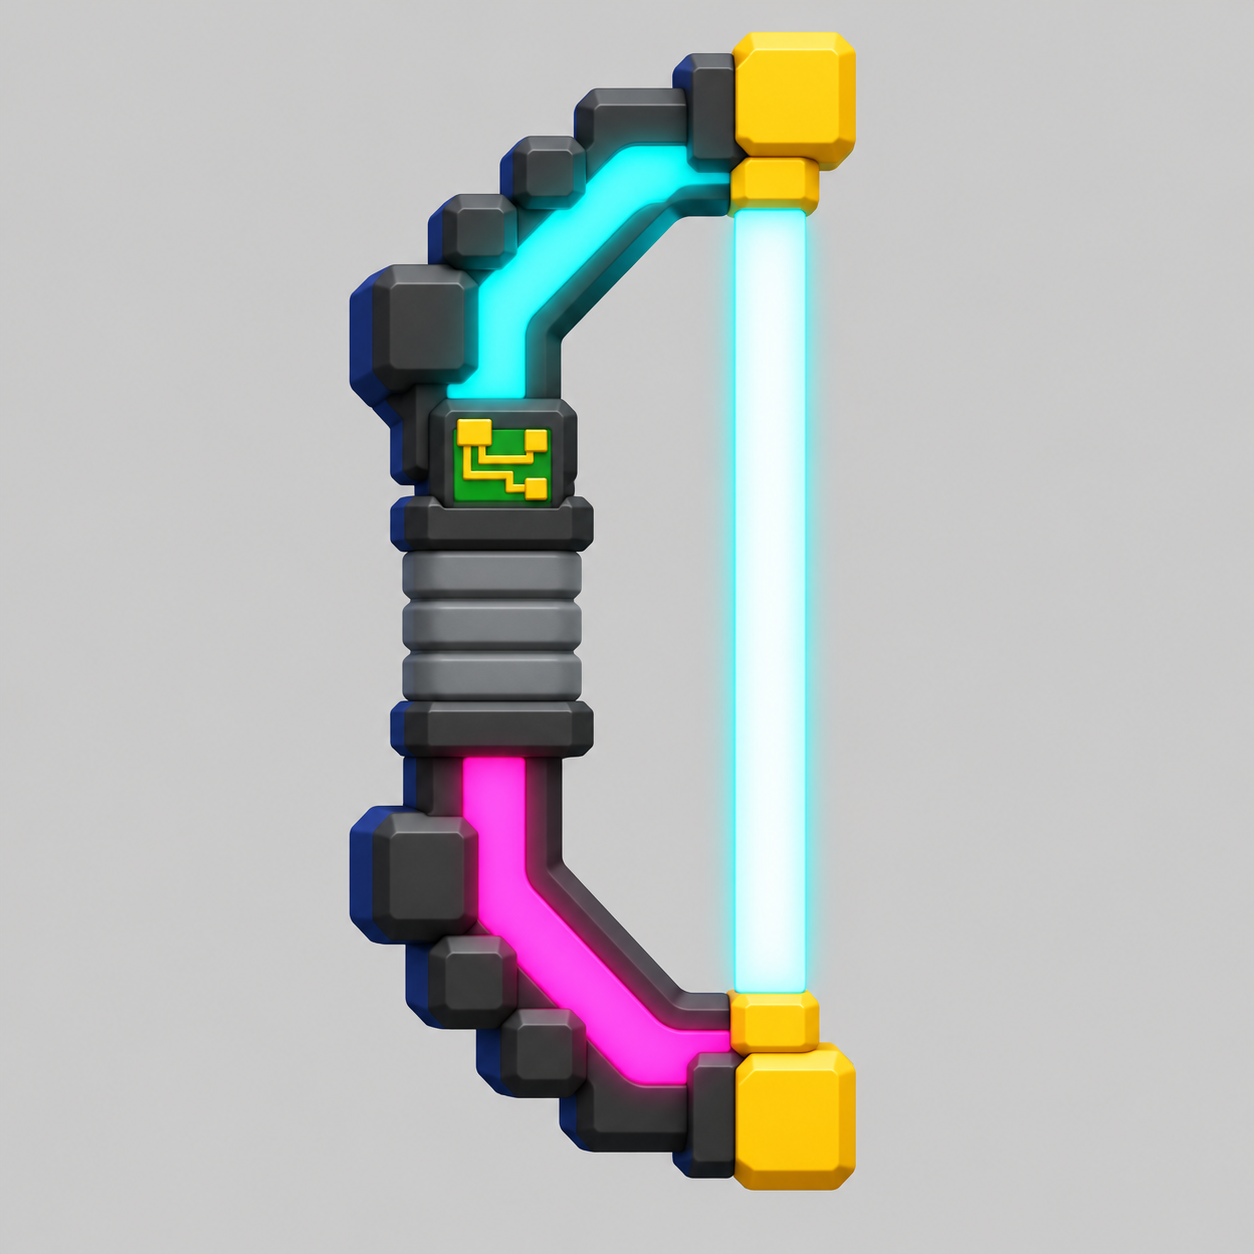
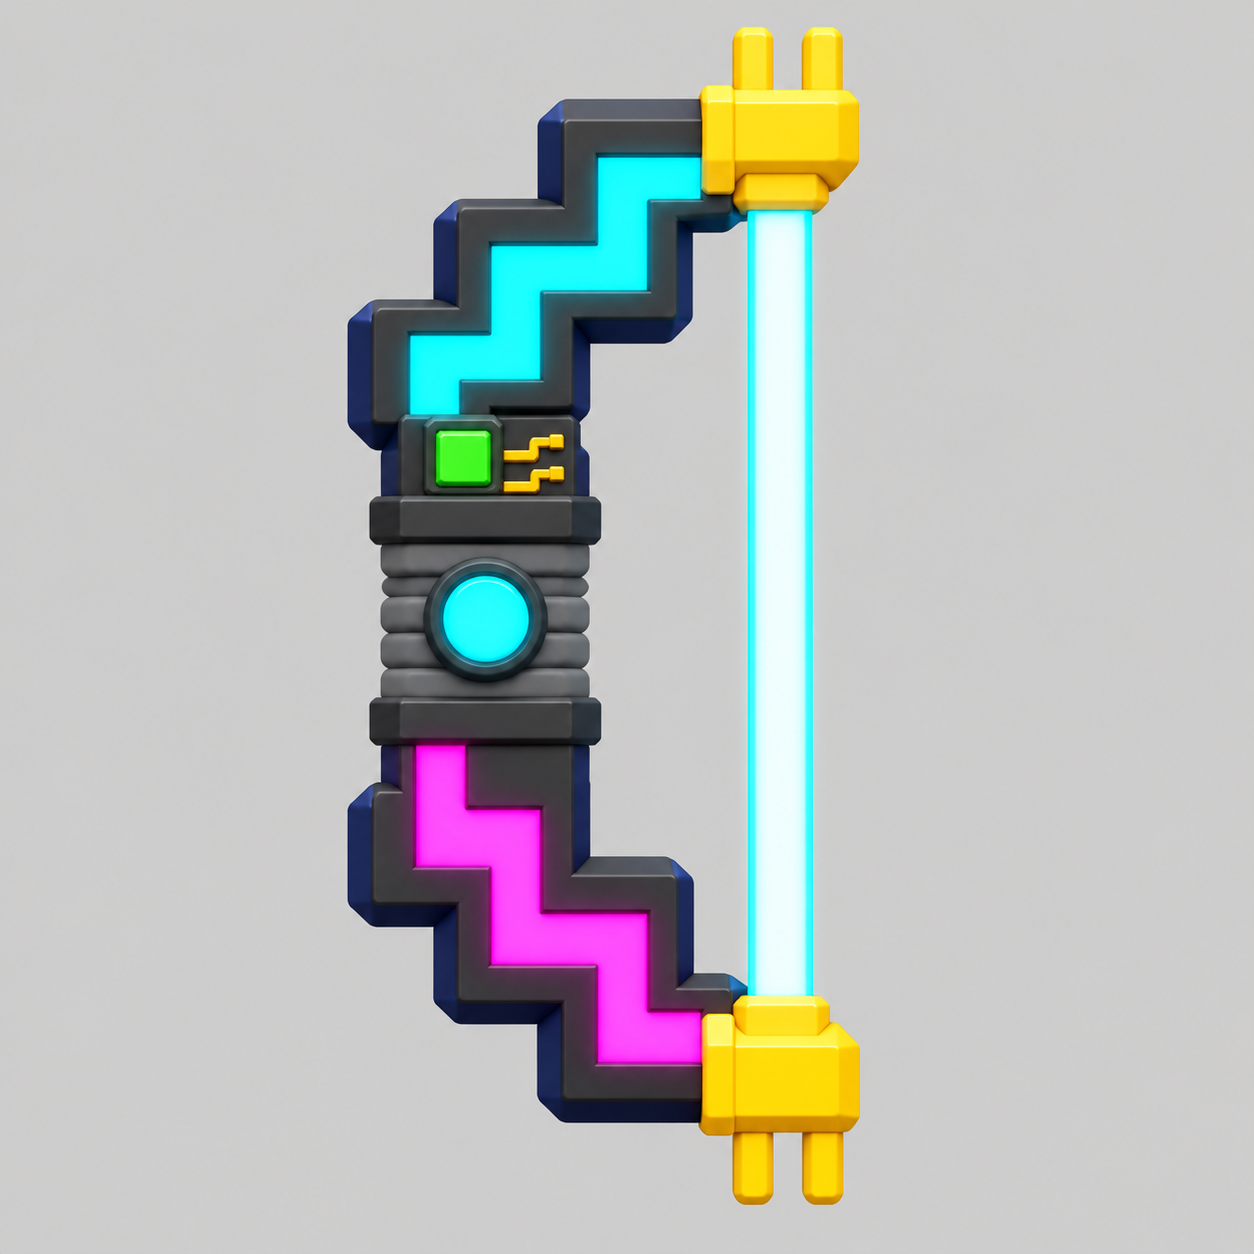
WIP: Neon Circuit second take (bolder shapes), the SETS shelf and the set's Dex page look
Not shipped: waits on the owner's yes to the pictures and the Tripo models.

Changed region(s): [[0.2488, 0.0, 0.6842, 0.9641]]

diff --git a/assets/concepts/blocky/weapons/skins/sets/set_prompts.py b/assets/concepts/blocky/weapons/skins/sets/set_prompts.py
@@ -53,42 +53,53 @@ SETS = {
         "shading on the block sides, glowing light strips in bright cyan and hot magenta, grey "
         "ribbed rubber grips, one bright yellow block as an accent, and one small square green "
         "circuit chip with a few gold pixel traces. Friendly and toy-like, like a kid's light-up "
-        "gadget; not sleek, not sharp, not military.",
+        "gadget; not sleek, not military. Each prop has a bold, unusual silhouette that reads at a "
+        "glance, with big simple shapes rather than a plain stick or blade.",
         [
             (
                 "livewire_bow", "LIVEWIRE BOW", "bow", "golden_bow.png",
-                "a recurve bow built of chunky graphite-black blocks; a glowing cyan light strip runs "
-                "down the front of the upper limb and a glowing magenta light strip down the front of "
-                "the lower limb; a bright yellow block caps each limb tip; the grip in the middle is a "
-                "grey ribbed rubber block with the square green circuit chip set just above it; the "
-                "string is one thick straight bar of white-cyan light; glowing softly cyan and magenta",
+                "a bow whose two limbs are big zigzag lightning bolts built of thick stepped "
+                "graphite-black blocks, each limb bending in three sharp right-angle steps; the upper "
+                "bolt carries a wide glowing cyan light strip down its middle and the lower bolt a "
+                "wide glowing magenta one; each limb tip ends in a big bright yellow two-pronged plug "
+                "head, prongs pointing outward; the grip in the middle is a fat graphite power cell "
+                "wrapped in grey ribbed rubber, with a round glowing cyan dial on its front and the "
+                "square green circuit chip above it; the string is one thick straight bar of "
+                "white-cyan light; glowing strongly cyan and magenta",
             ),
             (
                 "mainframe_staff", "MAINFRAME STAFF", "staff", "golden_staff.png",
-                "a square graphite-black shaft with a glowing magenta light strip running up its "
-                "front, a grey ribbed rubber grip a little below the middle and a bright yellow block "
-                "foot; its head is an open square frame of graphite-black blocks, like a chunky "
-                "monitor bezel, holding one glowing cyan cube that floats in the middle of the frame; "
-                "two short block prongs stand on top of the frame, one tipped cyan and one tipped "
-                "magenta; the square green circuit chip sits where the shaft meets the frame; glowing "
-                "softly cyan and magenta",
+                "its head is a big boxy retro computer monitor of graphite-black blocks, as wide as "
+                "four shaft widths, with a large glowing cyan screen crossed by one chunky magenta "
+                "zigzag pulse line, a row of three bright yellow square keys under the screen, and two "
+                "thick block antennae on top leaning outward in a V, one tipped with a glowing cyan "
+                "cube and one with a glowing magenta cube; the monitor sits on a short neck holding "
+                "the square green circuit chip; the shaft is a thick graphite conduit with a glowing "
+                "magenta light strip up its front and a grey ribbed rubber grip a little below the "
+                "middle; the foot is a big bright yellow plug with two prongs pointing down; glowing "
+                "strongly cyan and magenta",
             ),
             (
                 "overclock_blade", "OVERCLOCK BLADE", "greatsword", "golden_blade.png",
-                "a broad blade of graphite-black blocks with a squared-off stepped tip, a wide "
-                "glowing cyan light strip along both cutting edges and one glowing magenta line down "
-                "the centre groove; the guard is a chunky block like a heat sink, three square fins "
-                "each side, with the square green circuit chip in its middle; a short grey ribbed "
-                "rubber grip; the pommel is a bright yellow battery block with three small glowing "
-                "cyan charge bars; glowing softly cyan and magenta",
+                "a huge wide cleaver-like blade of graphite-black blocks with a slanted stepped tip; "
+                "its back edge is a row of five big square cooling fins like a heat sink, and its "
+                "cutting edge is one thick glowing cyan light bar from guard to tip; set into the "
+                "middle of the blade is a big round cooling fan, a glowing magenta ring with four "
+                "chunky graphite fan blades and a yellow hub; the guard is two fat bright yellow "
+                "block capacitors, one each side, joined by a graphite bar holding the square green "
+                "circuit chip; a short grey ribbed rubber grip; the pommel is a graphite battery block "
+                "with three glowing cyan charge bars; glowing strongly cyan and magenta",
             ),
             (
                 "glitch_daggers", "GLITCH DAGGERS", "dagger", "golden_daggers.png",
-                "a short graphite-black block blade with a glowing cyan edge, whose top third is "
-                "broken into three stair-step blocks shifted sideways, as if the picture had glitched, "
-                "the topmost block glowing magenta; a small square block guard with the square green "
-                "circuit chip in it; a grey ribbed rubber grip; a bright yellow block pommel; glowing "
-                "softly cyan and magenta",
+                "its blade is cut into five thick horizontal slices of graphite-black block, each "
+                "slice shifted a little left or right of the one below it, alternating, as if the "
+                "picture had glitched, the slices getting narrower toward a single square block tip; "
+                "the left edge of every slice glows cyan and the right edge glows magenta; all the "
+                "slices touch, nothing floats; the guard is a wide bright yellow block shaped like a "
+                "chunky game cartridge with the square green circuit chip in its middle; a grey "
+                "ribbed rubber grip; the pommel is a glowing magenta cube; glowing strongly cyan and "
+                "magenta",
             ),
         ],
     ),

diff --git a/assets/ui/shop/set_icons.py b/assets/ui/shop/set_icons.py
@@ -1,0 +1,62 @@
+"""Shop and gear pictures for the themed weapon sets (docs/WEAPONS-THEMED.md).
+
+    python -I assets/ui/shop/set_icons.py
+
+Reads assets/concepts/blocky/weapons/skins/sets/<set>/<name>.png (one
+weapon each, flat and upright on light grey: the picture its Tripo model
+is made from, rule 14) and writes:
+
+- assets/ui/shop/icons/<Weapon>.png, a 256 px square leaned like every
+  other shop icon (the cutting is bogheart_icons.py's);
+- assets/ui/gear/outlined/<Weapon>.png, the same with the gear icons' bold
+  dark outline.
+
+A dagger's picture is ONE dagger (the model is one, held in each hand), so
+the pair is made here, two copies crossed in a V (new_dagger_icons.py).
+"""
+
+import pathlib
+import sys
+
+from PIL import Image
+
+HERE = pathlib.Path(__file__).resolve().parent
+sys.path.insert(0, str(HERE))
+import bogheart_icons as cutter  # noqa: E402
+from glade_redesign_icons import outlined  # noqa: E402
+from new_dagger_icons import crossed, single  # noqa: E402
+
+REPO = HERE.parents[2]
+SETS = REPO / "assets/concepts/blocky/weapons/skins/sets"
+# set folder -> { Weapon key: (picture, is it a dagger) }
+WEAPONS = {
+    "neon_circuit": {
+        "LivewireBow": ("livewire_bow", False),
+        "MainframeStaff": ("mainframe_staff", False),
+        "OverclockBlade": ("overclock_blade", False),
+        "GlitchDaggers": ("glitch_daggers", True),
+    },
+}
+
+
+def main() -> None:
+    for folder, weapons in WEAPONS.items():
+        for key, (stem, dagger) in weapons.items():
+            source = SETS / folder / f"{stem}.png"
+            if not source.exists():
+                print("missing", source.name)
+                continue
+            if dagger:
+                icon = cutter.fit(crossed(single(source)))
+            else:
+                cut = cutter.key_out(Image.open(source))
+                cut = cut.crop(cut.getchannel("A").getbbox())
+                cut = cut.rotate(-cutter.TILT, resample=Image.BICUBIC, expand=True)
+                icon = cutter.fit(cut)
+            icon.save(HERE / "icons" / f"{key}.png")
+            outlined(icon).save(REPO / "assets/ui/gear/outlined" / f"{key}.png")
+            print(key)
+
+
+if __name__ == "__main__":
+    main()
